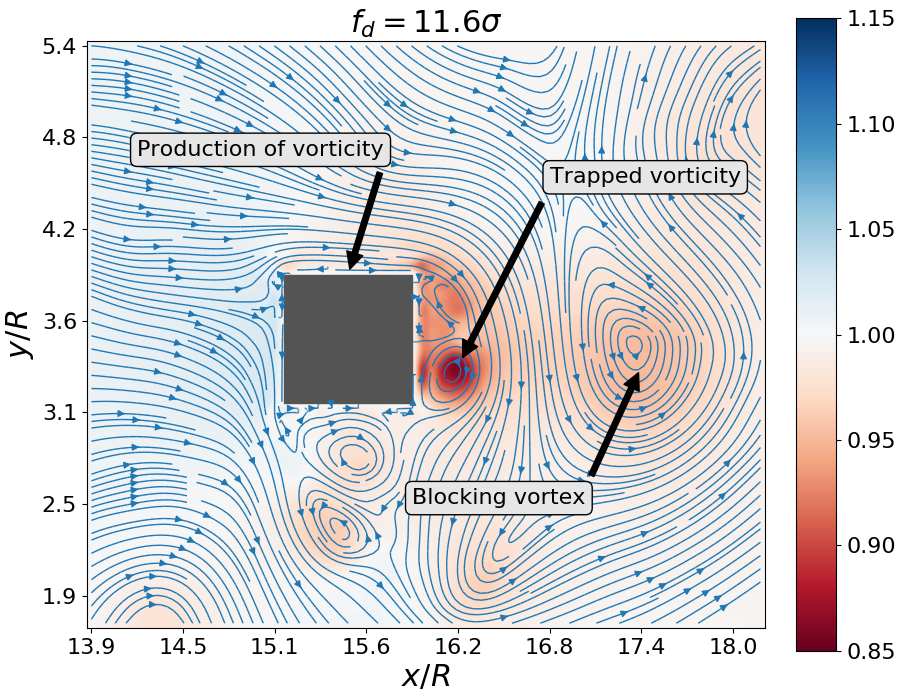
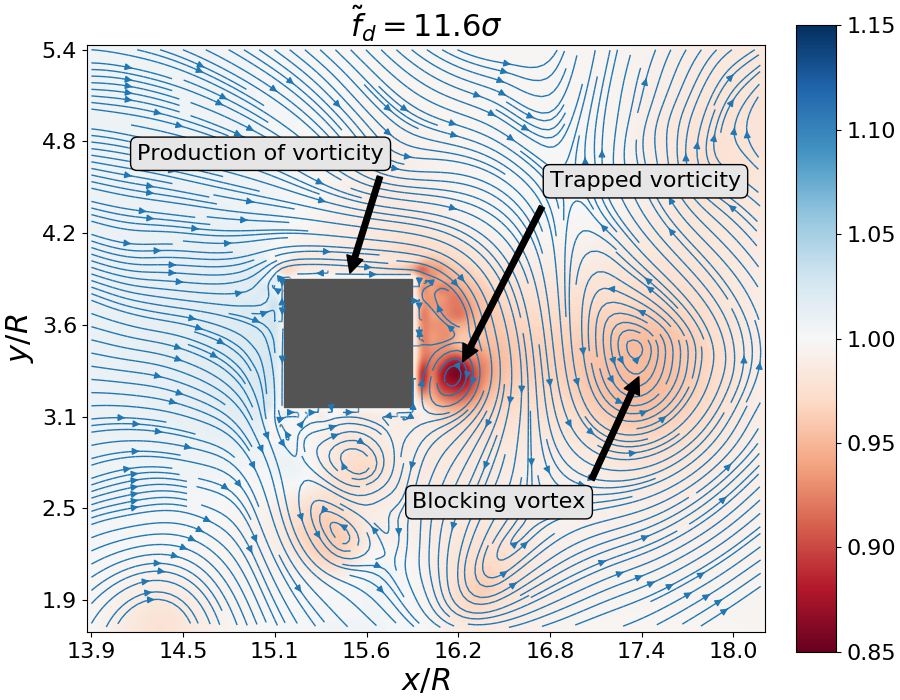
Change title of figure density_streamlines

diff --git a/figures/illustr_density_streamlines/make_plot_density_2.py b/figures/illustr_density_streamlines/make_plot_density_2.py
@@ -13,7 +13,7 @@ y = np.asarray(range(0,64))
 N = Dx*Dy
 F = np.zeros(104)
 idx = np.zeros(104)
-prefix = '/home/thibault/transition_hdd/thibault/These/lbm_code/seq/draft/etude_dynamique/instant_events/'
+prefix = '/home/tlestang/transition_hdd/thibault/These/lbm_code/seq/draft/etude_dynamique/instant_events/'
 # Files extremes.csv contains the index of the events and the corresponding
 # peak drag amplitude, in units of sigma
 # First row is lowest fluctuation
@@ -67,7 +67,7 @@ rhoCropped = rho[ymin:ymax,xmin:xmax]
 im = ax_list.imshow(rhoCropped, interpolation='spline36', cmap='RdBu', vmin=0.85, vmax=1.15)
     
 # Print fluctuation amplitude as title
-tit='$f_d = {:2.1f}\\sigma$'.format(F[0])
+tit='$\\tilde{f}'+'_d = {:2.1f}\\sigma$'.format(F[0])
 ax_list.set_title(tit,fontsize=22)
 
 # Adds a filled Rectangle to mark the square obstacle

diff --git a/draft_p2.tex b/draft_p2.tex
@@ -428,7 +428,7 @@ To better understand the flow scenarii leading to these events, the vorticity fi
 \begin{figure}
   \centering
   \includegraphics[width=.5\linewidth]{illustr_density_streamlines/illustr_density_streamlines.png}
-  \caption{\label{fig:density+streamlines} Pressure field (in lattice units) and velocity streamlines at $t=t^{\star}$. In the near wake of the square, a (blocking) vortex blocks an intense vortex against the base of the obstacle. \EL{$f_d$ or $\tilde f_d$?}}
+  \caption{\label{fig:density+streamlines} Pressure field (in lattice units) and velocity streamlines at $t=t^{\star}$. In the near wake of the square, a (blocking) vortex blocks an intense vortex against the base of the obstacle. \TL{changed to $\tilde f_d$.}}
 \end{figure}
 
 
